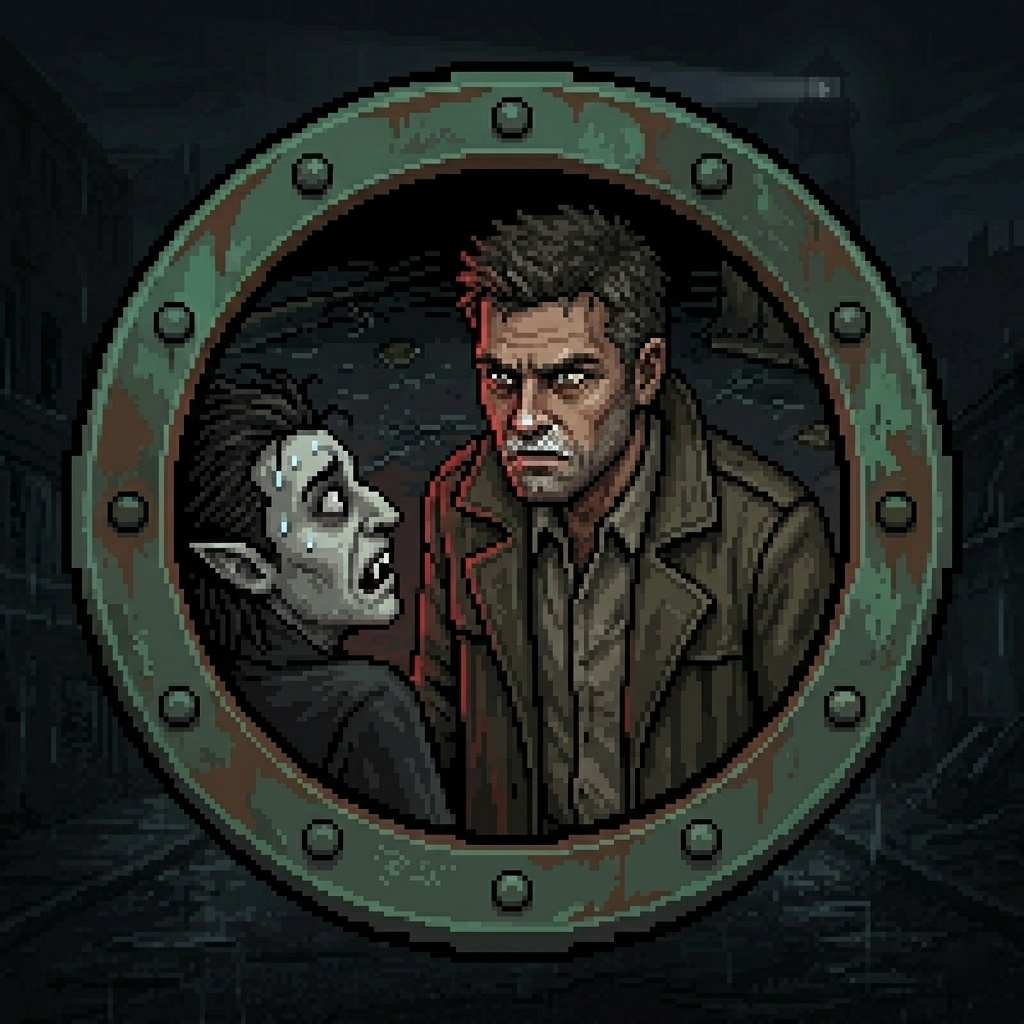
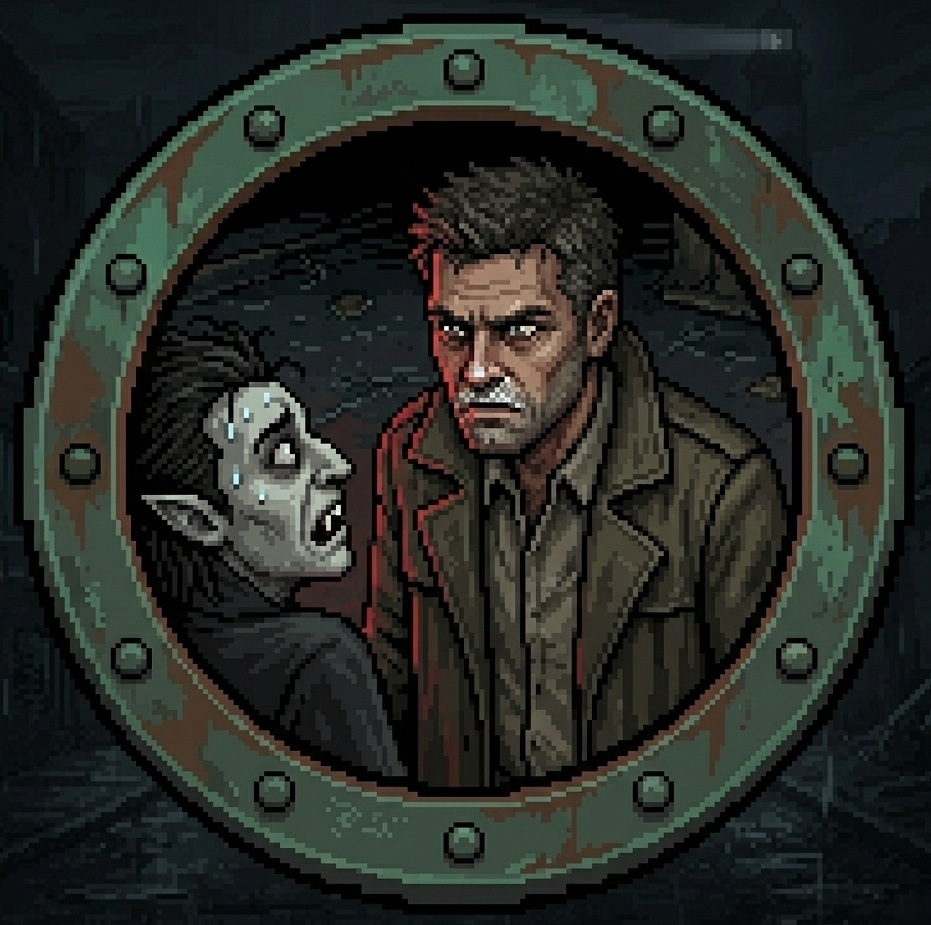
fix(audio): assets SFX commiteados + limpieza badges — v0.22.2 / Centinelas v0.17.2
- 69 archivos .mp3 en public/sounds/ ahora rastreados en git (SFX con variantes multi-take)
- Tag paso_agua removido del ink (existía el archivo pero no encajó narrativamente)
- Achievement badges actualizados (duro rocky, ratoncito .jpg); carpeta old/ eliminada

diff --git a/docs/centinelas/CHANGELOG.md b/docs/centinelas/CHANGELOG.md
@@ -1,5 +1,15 @@
 # Changelog — Centinelas del Sur
 
+## [0.17.2] — 2026-04-21
+
+### Fix: assets de audio + limpieza
+
+- Tag `paso_agua` removido del ink — el sonido existe pero no encajó narrativamente en ningún beat.
+- 87 archivos `.mp3` en `public/sounds/` ahora commiteados (SFX con variantes multi-take para todo el sistema de audio).
+- Achievement badges actualizados (`duro rocky`, `ratoncito`); carpeta `old/` eliminada.
+
+---
+
 ## [0.17.1] — 2026-04-21
 
 ### Fix: SFX random variants + tags faltantes

diff --git a/CHANGELOG.md b/CHANGELOG.md
@@ -1,5 +1,13 @@
 # Changelog — BardoEngine
 
+## v0.22.2 (2026-04-21)
+
+### Fixes
+- **audio assets committed**: 87 archivos `.mp3` en `public/sounds/` (SFX con variantes multi-take) ahora rastreados en git. Tag `paso_agua` removido del ink — el sonido existe pero no encajó narrativamente.
+- **achievement badges**: imágenes actualizadas (`duro rocky`, `ratoncito`), carpeta `old/` eliminada.
+
+---
+
 ## v0.22.1 (2026-04-21)
 
 ### Features